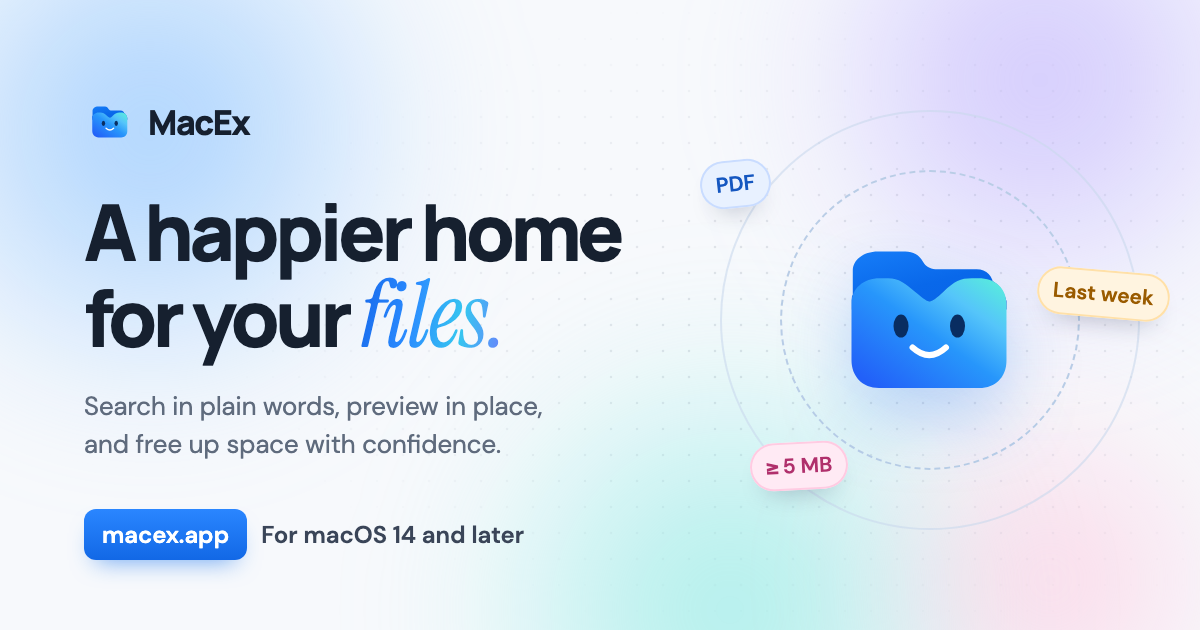
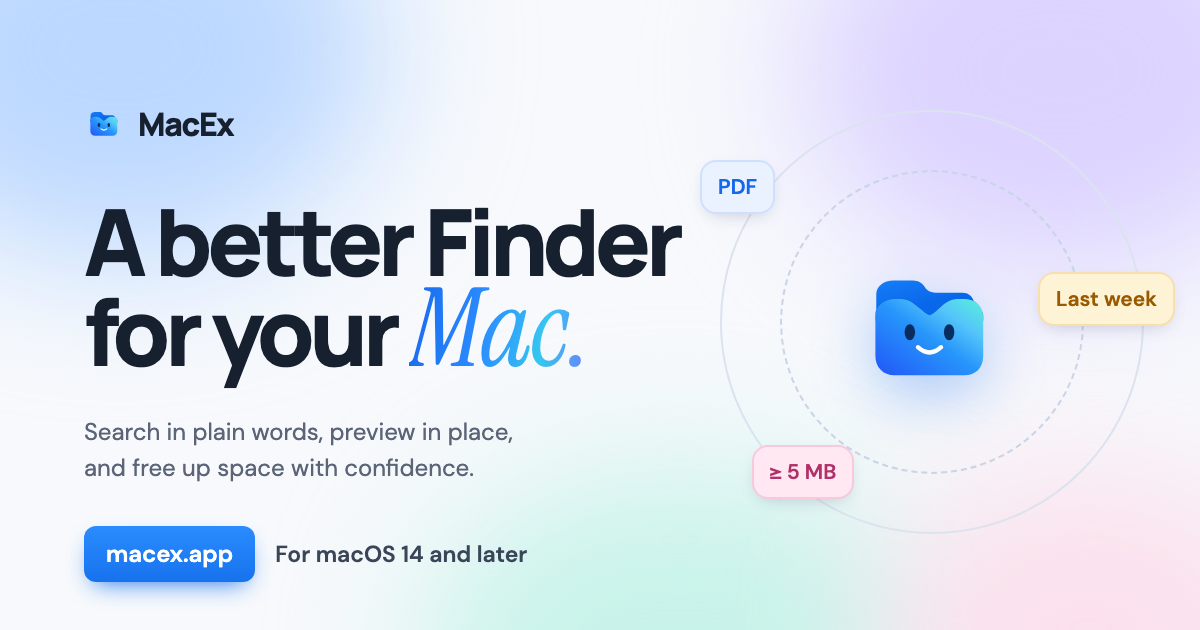
Hero: A better Finder for your Mac
Update the homepage headline, Open Graph/Twitter titles and the share
image to match.

diff --git a/index.html b/index.html
@@ -9,15 +9,15 @@
   <link rel="canonical" href="https://macex.app/">
   <meta property="og:site_name" content="MacEx">
   <meta property="og:url" content="https://macex.app/">
-  <meta property="og:title" content="MacEx: a happier home for your files">
+  <meta property="og:title" content="MacEx: a better Finder for your Mac">
   <meta property="og:description" content="Search the way you think. A native file library for your Mac.">
   <meta property="og:type" content="website">
   <meta property="og:image" content="https://macex.app/assets/og-image.png">
   <meta property="og:image:width" content="1200">
   <meta property="og:image:height" content="630">
-  <meta property="og:image:alt" content="MacEx: a happier home for your files">
+  <meta property="og:image:alt" content="MacEx: a better Finder for your Mac">
   <meta name="twitter:card" content="summary_large_image">
-  <meta name="twitter:title" content="MacEx: a happier home for your files">
+  <meta name="twitter:title" content="MacEx: a better Finder for your Mac">
   <meta name="twitter:description" content="Search the way you think. A native file library for your Mac.">
   <meta name="twitter:image" content="https://macex.app/assets/og-image.png">
   <link rel="icon" href="assets/mascot.svg" type="image/svg+xml">
@@ -263,8 +263,8 @@
   <div class="hero-grid" aria-hidden="true"></div>
   <div class="container hero-inner">
     <h1 class="hero-title">
-      <span class="line"><span class="word">A</span> <span class="word">happier</span> <span class="word">home</span></span>
-      <span class="line"><span class="word">for</span> <span class="word">your</span> <em class="word serif">files.</em></span>
+      <span class="line"><span class="word">A</span> <span class="word">better</span> <span class="word">Finder</span></span>
+      <span class="line"><span class="word">for</span> <span class="word">your</span> <em class="word serif">Mac.</em></span>
     </h1>
     <p class="hero-copy"><strong>MacEx is a file library app for Mac.</strong> It finds any file from a plain description,<br class="br-wide"> previews it without opening another app, and frees up space safely.</p>
     <div class="hero-actions">
